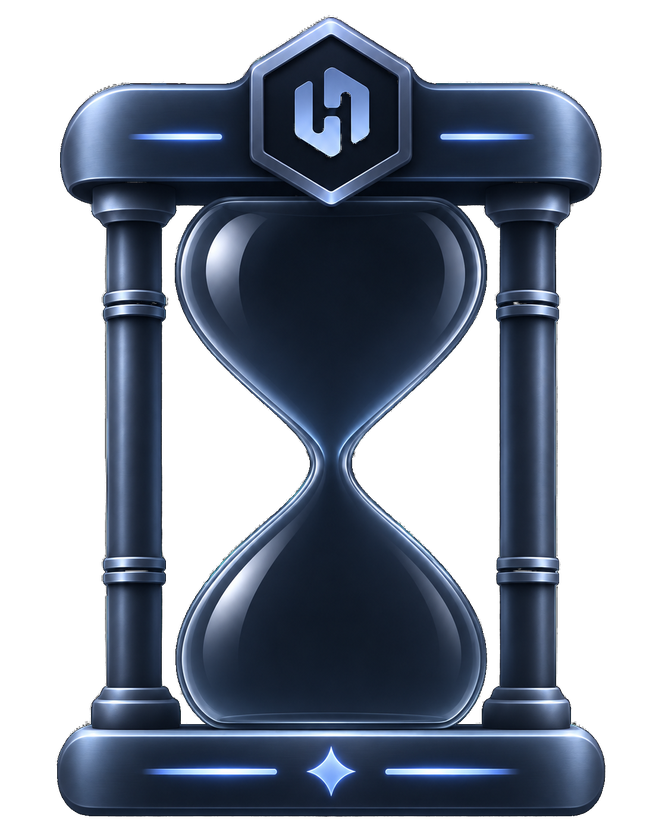
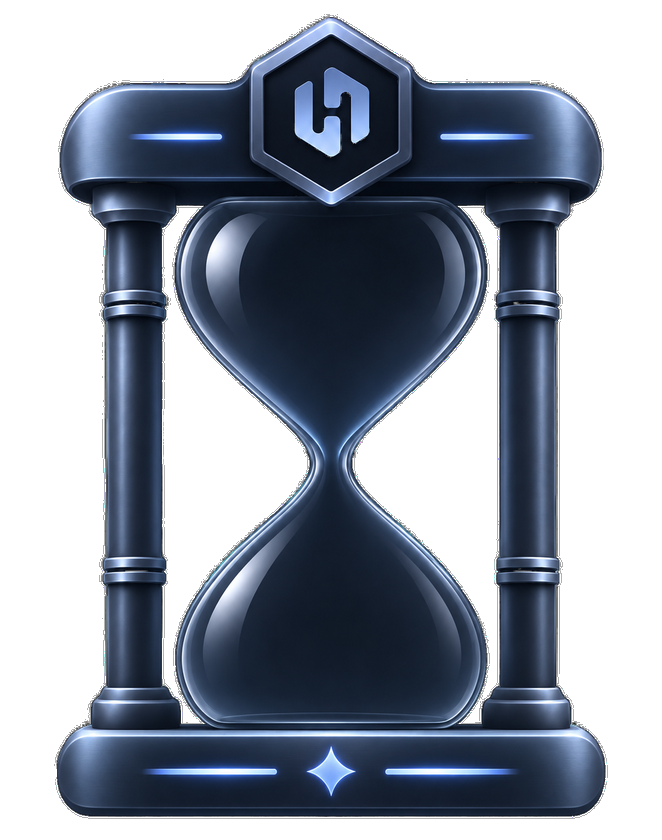
Hourglasses: the glass 30% less see-through; every still hourglass (carousel, awards, rank-up, leaderboard) is the empty frame, the full art with painted sand removed; the carousel's are dimmed 30%

diff --git a/theme/hourglassFrames.ts b/theme/hourglassFrames.ts
@@ -28,52 +28,52 @@ export interface GlassFrame {
 export const HOURGLASS_FRAMES: Record<string, GlassFrame> = {
     Lost: {
         image: require('@/assets/images/hourglasses/frames/lost.png'),
-        width: 662, height: 840, cx: 330, neck: 466, top: 207, bottom: 722, light: 0.75, foot: 812, brightness: 0.7,
-        outline: [[207, 204, 457], [219, 193, 467], [231, 186, 474], [243, 181, 479], [255, 178, 482], [267, 177, 484], [279, 177, 484], [291, 179, 482], [303, 183, 479], [315, 187, 474], [327, 194, 468], [339, 202, 459], [351, 211, 449], [363, 221, 439], [375, 233, 427], [387, 246, 414], [399, 259, 401], [411, 273, 387], [423, 287, 374], [435, 298, 362], [447, 307, 354], [459, 310, 351], [471, 310, 351], [483, 305, 357], [495, 295, 367], [507, 282, 379], [519, 269, 392], [531, 255, 404], [543, 241, 417], [555, 229, 429], [567, 218, 440], [579, 208, 450], [591, 200, 459], [603, 192, 467], [615, 186, 473], [627, 182, 478], [639, 178, 481], [651, 177, 484], [663, 177, 484], [675, 178, 483], [687, 181, 480], [699, 186, 475], [711, 193, 468], [722, 204, 457]],
+        width: 662, height: 840, cx: 330, neck: 456, top: 207, bottom: 721, light: 0.75, foot: 812, brightness: 0.7,
+        outline: [[207, 204, 457], [219, 193, 467], [231, 186, 475], [243, 181, 480], [255, 178, 482], [267, 176, 484], [279, 176, 484], [291, 179, 482], [303, 182, 479], [315, 187, 474], [327, 194, 468], [339, 202, 459], [351, 211, 450], [363, 221, 439], [375, 233, 427], [387, 246, 414], [399, 259, 401], [411, 273, 387], [423, 286, 374], [435, 298, 363], [447, 306, 354], [459, 310, 351], [471, 310, 352], [483, 304, 357], [495, 294, 367], [507, 282, 379], [519, 268, 392], [531, 254, 405], [543, 241, 417], [555, 229, 429], [567, 218, 440], [579, 208, 450], [591, 199, 459], [603, 192, 467], [615, 186, 473], [627, 181, 478], [639, 178, 482], [651, 176, 484], [663, 176, 484], [675, 178, 483], [687, 181, 480], [699, 186, 476], [711, 193, 468], [721, 203, 458]],
     },
     Beginner: {
         image: require('@/assets/images/hourglasses/frames/beginner.png'),
-        width: 662, height: 840, cx: 330, neck: 457, top: 212, bottom: 718, light: 0.74, foot: 816, brightness: 0.7,
-        outline: [[212, 196, 463], [224, 187, 472], [236, 181, 478], [248, 177, 482], [260, 175, 484], [272, 174, 485], [284, 176, 484], [296, 179, 481], [308, 183, 477], [320, 189, 471], [332, 196, 464], [344, 205, 455], [356, 215, 445], [368, 226, 434], [380, 238, 422], [392, 251, 410], [404, 264, 396], [416, 278, 383], [428, 292, 369], [440, 302, 359], [452, 307, 354], [464, 308, 353], [476, 306, 355], [488, 298, 363], [500, 287, 374], [512, 274, 388], [524, 260, 401], [536, 246, 415], [548, 232, 427], [560, 221, 438], [572, 211, 448], [584, 202, 457], [596, 194, 465], [608, 188, 472], [620, 183, 477], [632, 180, 481], [644, 177, 483], [656, 177, 485], [668, 178, 484], [680, 181, 480], [692, 186, 475], [704, 193, 469], [716, 203, 458], [718, 205, 455]],
+        width: 662, height: 840, cx: 331, neck: 461, top: 212, bottom: 718, light: 0.74, foot: 816, brightness: 0.7,
+        outline: [[212, 195, 463], [224, 187, 472], [236, 180, 478], [248, 177, 482], [260, 173, 485], [272, 174, 486], [284, 176, 484], [296, 178, 481], [308, 183, 477], [320, 188, 471], [332, 196, 464], [344, 204, 456], [356, 214, 446], [368, 225, 434], [380, 238, 423], [392, 251, 410], [404, 264, 397], [416, 278, 383], [428, 291, 370], [440, 302, 359], [452, 307, 354], [464, 308, 353], [476, 306, 355], [488, 298, 363], [500, 287, 375], [512, 273, 388], [524, 260, 402], [536, 245, 415], [548, 232, 427], [560, 221, 438], [572, 210, 448], [584, 202, 457], [596, 193, 465], [608, 188, 472], [620, 183, 477], [632, 179, 481], [644, 177, 484], [656, 176, 486], [668, 178, 484], [680, 180, 480], [692, 184, 477], [704, 192, 470], [716, 202, 458], [718, 205, 456]],
     },
     Consistent: {
         image: require('@/assets/images/hourglasses/frames/consistent.png'),
-        width: 662, height: 840, cx: 330, neck: 460, top: 205, bottom: 723, light: 0.75, foot: 815, brightness: 0.7,
-        outline: [[205, 193, 466], [217, 193, 467], [229, 186, 475], [241, 180, 481], [253, 177, 484], [265, 175, 486], [277, 175, 486], [289, 176, 485], [301, 180, 482], [313, 184, 477], [325, 191, 470], [337, 199, 462], [349, 208, 453], [361, 219, 442], [373, 231, 430], [385, 243, 417], [397, 256, 404], [409, 270, 391], [421, 283, 378], [433, 295, 365], [445, 304, 356], [457, 309, 352], [469, 309, 352], [481, 304, 356], [493, 295, 366], [505, 283, 378], [517, 269, 392], [529, 256, 405], [541, 242, 418], [553, 230, 430], [565, 219, 442], [577, 209, 452], [589, 200, 461], [601, 192, 468], [613, 186, 475], [625, 181, 480], [637, 178, 483], [649, 175, 486], [661, 175, 486], [673, 177, 485], [685, 180, 482], [697, 184, 477], [709, 192, 470], [721, 203, 460], [723, 205, 457]],
+        width: 662, height: 840, cx: 330, neck: 460, top: 205, bottom: 723, light: 0.75, foot: 816, brightness: 0.7,
+        outline: [[205, 91, 472], [217, 193, 468], [229, 185, 475], [241, 180, 481], [253, 176, 484], [265, 175, 486], [277, 175, 486], [289, 176, 485], [301, 179, 482], [313, 184, 477], [325, 191, 471], [337, 198, 462], [349, 208, 453], [361, 218, 442], [373, 230, 431], [385, 243, 418], [397, 256, 405], [409, 270, 391], [421, 283, 378], [433, 295, 365], [445, 304, 357], [457, 309, 352], [469, 309, 352], [481, 304, 357], [493, 295, 367], [505, 283, 379], [517, 269, 392], [529, 255, 405], [541, 242, 419], [553, 230, 430], [565, 219, 442], [577, 209, 452], [589, 200, 461], [601, 192, 469], [613, 186, 475], [625, 181, 480], [637, 178, 484], [649, 175, 486], [661, 175, 486], [673, 176, 485], [685, 179, 483], [697, 184, 478], [709, 191, 470], [721, 202, 460], [723, 205, 457]],
     },
     Growing: {
         image: require('@/assets/images/hourglasses/frames/growing.png'),
-        width: 662, height: 840, cx: 329, neck: 468, top: 222, bottom: 728, light: 0.75, foot: 815, brightness: 0.8,
-        outline: [[222, 200, 458], [234, 190, 468], [246, 183, 474], [258, 178, 479], [270, 176, 481], [282, 175, 481], [294, 176, 480], [306, 179, 478], [318, 183, 474], [330, 189, 468], [342, 196, 461], [354, 205, 452], [366, 216, 442], [378, 227, 430], [390, 239, 418], [402, 252, 405], [414, 265, 392], [426, 278, 379], [438, 290, 367], [450, 300, 357], [462, 307, 351], [474, 308, 350], [486, 305, 353], [498, 297, 360], [510, 286, 371], [522, 274, 383], [534, 261, 397], [546, 248, 410], [558, 235, 423], [570, 223, 434], [582, 212, 446], [594, 202, 455], [606, 194, 464], [618, 187, 470], [630, 182, 475], [642, 179, 478], [654, 177, 480], [666, 176, 480], [678, 177, 479], [690, 180, 477], [702, 184, 473], [714, 191, 467], [726, 203, 454], [728, 206, 450]],
+        width: 662, height: 840, cx: 328, neck: 467, top: 222, bottom: 728, light: 0.75, foot: 815, brightness: 0.8,
+        outline: [[222, 91, 470], [234, 189, 468], [246, 182, 475], [258, 178, 479], [270, 176, 481], [282, 175, 482], [294, 176, 481], [306, 178, 478], [318, 182, 474], [330, 188, 468], [342, 196, 461], [354, 205, 452], [366, 215, 442], [378, 227, 431], [390, 239, 419], [402, 252, 406], [414, 265, 392], [426, 278, 379], [438, 290, 367], [450, 300, 357], [462, 306, 352], [474, 307, 350], [486, 304, 353], [498, 297, 361], [510, 286, 371], [522, 274, 384], [534, 260, 397], [546, 247, 410], [558, 235, 423], [570, 223, 435], [582, 212, 446], [594, 202, 456], [606, 194, 464], [618, 187, 470], [630, 182, 475], [642, 178, 479], [654, 176, 480], [666, 176, 481], [678, 177, 480], [690, 179, 478], [702, 183, 474], [714, 190, 467], [726, 203, 454], [728, 200, 451]],
     },
     Disciplined: {
         image: require('@/assets/images/hourglasses/frames/disciplined.png'),
-        width: 662, height: 840, cx: 330, neck: 462, top: 204, bottom: 718, light: 0.75, foot: 814, brightness: 0.8,
-        outline: [[204, 208, 453], [216, 195, 465], [228, 187, 474], [240, 181, 480], [252, 177, 484], [264, 175, 486], [276, 174, 487], [288, 175, 486], [300, 178, 484], [312, 182, 479], [324, 189, 473], [336, 197, 465], [348, 206, 456], [360, 217, 445], [372, 229, 433], [384, 241, 421], [396, 253, 408], [408, 266, 395], [420, 279, 381], [432, 292, 369], [444, 302, 359], [456, 308, 353], [468, 310, 351], [480, 307, 354], [492, 299, 362], [504, 287, 374], [516, 274, 387], [528, 260, 401], [540, 246, 414], [552, 233, 427], [564, 221, 439], [576, 210, 450], [588, 201, 459], [600, 193, 467], [612, 187, 473], [624, 182, 478], [636, 179, 482], [648, 177, 484], [660, 177, 484], [672, 179, 482], [684, 182, 479], [696, 187, 474], [708, 196, 466], [718, 199, 564]],
+        width: 662, height: 840, cx: 330, neck: 464, top: 204, bottom: 717, light: 0.75, foot: 814, brightness: 0.8,
+        outline: [[204, 207, 453], [216, 195, 466], [228, 187, 474], [240, 181, 480], [252, 177, 484], [264, 174, 487], [276, 174, 487], [288, 175, 487], [300, 178, 484], [312, 182, 480], [324, 189, 474], [336, 197, 465], [348, 206, 456], [360, 217, 446], [372, 228, 434], [384, 240, 421], [396, 253, 408], [408, 266, 395], [420, 279, 382], [432, 291, 369], [444, 302, 359], [456, 308, 353], [468, 310, 351], [480, 306, 354], [492, 298, 363], [504, 287, 374], [516, 273, 387], [528, 259, 401], [540, 246, 414], [552, 232, 427], [564, 221, 440], [576, 210, 450], [588, 201, 459], [600, 193, 467], [612, 187, 474], [624, 182, 478], [636, 179, 482], [648, 177, 484], [660, 177, 484], [672, 178, 483], [684, 182, 480], [696, 187, 474], [708, 196, 466], [717, 204, 457]],
     },
     Focused: {
         image: require('@/assets/images/hourglasses/frames/focused.png'),
-        width: 662, height: 840, cx: 330, neck: 462, top: 214, bottom: 714, light: 0.75, foot: 812, brightness: 0.8,
-        outline: [[214, 198, 464], [226, 188, 473], [238, 182, 480], [250, 177, 485], [262, 174, 487], [274, 173, 488], [286, 173, 488], [298, 176, 486], [310, 179, 482], [322, 185, 477], [334, 192, 470], [346, 201, 461], [358, 210, 451], [370, 221, 440], [382, 234, 428], [394, 247, 414], [406, 259, 401], [418, 273, 387], [430, 287, 374], [442, 299, 362], [454, 307, 353], [466, 310, 350], [478, 308, 352], [490, 301, 359], [502, 288, 371], [514, 274, 385], [526, 260, 400], [538, 246, 413], [550, 233, 426], [562, 221, 439], [574, 210, 450], [586, 201, 459], [598, 193, 467], [610, 187, 473], [622, 182, 479], [634, 178, 482], [646, 176, 485], [658, 176, 485], [670, 177, 483], [682, 181, 480], [694, 186, 474], [706, 195, 466], [714, 203, 457]],
+        width: 662, height: 840, cx: 330, neck: 465, top: 214, bottom: 714, light: 0.75, foot: 812, brightness: 0.8,
+        outline: [[214, 187, 567], [226, 188, 473], [238, 181, 480], [250, 176, 485], [262, 174, 488], [274, 173, 488], [286, 173, 488], [298, 175, 486], [310, 179, 482], [322, 185, 477], [334, 192, 470], [346, 200, 461], [358, 210, 451], [370, 221, 440], [382, 233, 428], [394, 246, 415], [406, 259, 402], [418, 273, 388], [430, 286, 374], [442, 298, 362], [454, 307, 354], [466, 310, 350], [478, 308, 352], [490, 301, 359], [502, 288, 371], [514, 274, 385], [526, 259, 400], [538, 246, 414], [550, 233, 427], [562, 221, 439], [574, 210, 450], [586, 201, 459], [598, 193, 467], [610, 186, 474], [622, 181, 479], [634, 178, 483], [646, 176, 485], [658, 176, 485], [670, 177, 484], [682, 180, 480], [694, 186, 475], [706, 195, 466], [714, 203, 458]],
     },
     Master: {
         image: require('@/assets/images/hourglasses/frames/master.png'),
-        width: 609, height: 840, cx: 302, neck: 467, top: 215, bottom: 725, light: 0.74, foot: 818, brightness: 0.8,
-        outline: [[215, 168, 434], [227, 162, 444], [239, 154, 452], [251, 149, 457], [263, 146, 461], [275, 145, 462], [287, 145, 462], [299, 147, 460], [311, 150, 457], [323, 154, 452], [335, 160, 446], [347, 168, 438], [359, 177, 429], [371, 188, 418], [383, 199, 406], [395, 212, 394], [407, 225, 380], [419, 239, 367], [431, 252, 352], [443, 265, 339], [455, 275, 329], [467, 281, 324], [479, 280, 325], [491, 274, 331], [503, 262, 342], [515, 249, 356], [527, 234, 371], [539, 220, 385], [551, 206, 398], [563, 194, 410], [575, 182, 421], [587, 172, 431], [599, 164, 440], [611, 157, 447], [623, 152, 452], [635, 148, 457], [647, 146, 460], [659, 145, 461], [671, 145, 461], [683, 147, 459], [695, 152, 455], [707, 158, 449], [719, 168, 439], [725, 176, 433]],
+        width: 609, height: 840, cx: 302, neck: 469, top: 216, bottom: 725, light: 0.74, foot: 819, brightness: 0.8,
+        outline: [[216, 172, 434], [228, 161, 445], [240, 154, 453], [252, 149, 458], [264, 146, 461], [276, 144, 462], [288, 145, 462], [300, 146, 460], [312, 150, 457], [324, 154, 452], [336, 161, 445], [348, 169, 437], [360, 178, 428], [372, 188, 417], [384, 200, 406], [396, 213, 393], [408, 226, 380], [420, 239, 366], [432, 253, 351], [444, 266, 339], [456, 276, 329], [468, 280, 324], [480, 279, 325], [492, 273, 332], [504, 261, 344], [516, 247, 358], [528, 233, 372], [540, 218, 386], [552, 205, 399], [564, 192, 411], [576, 181, 422], [588, 171, 432], [600, 163, 440], [612, 156, 448], [624, 151, 453], [636, 147, 457], [648, 145, 460], [660, 144, 462], [672, 145, 461], [684, 147, 459], [696, 152, 455], [708, 159, 449], [720, 169, 439], [725, 176, 433]],
     },
     Unbreakable: {
         image: require('@/assets/images/hourglasses/frames/unbreakable.png'),
-        width: 662, height: 840, cx: 330, neck: 458, top: 232, bottom: 713, light: 0.75, foot: 810, brightness: 0.8,
-        outline: [[232, 186, 580], [244, 181, 480], [256, 178, 483], [268, 176, 484], [280, 176, 484], [292, 178, 482], [304, 181, 479], [316, 186, 474], [328, 193, 468], [340, 201, 460], [352, 210, 450], [364, 221, 439], [376, 233, 427], [388, 246, 414], [400, 259, 401], [412, 272, 388], [424, 286, 374], [436, 297, 363], [448, 305, 355], [460, 308, 352], [472, 307, 353], [484, 302, 358], [496, 292, 368], [508, 278, 381], [520, 264, 395], [532, 250, 410], [544, 237, 423], [556, 225, 435], [568, 214, 446], [580, 205, 456], [592, 197, 464], [604, 190, 470], [616, 186, 475], [628, 182, 478], [640, 83, 480], [652, 180, 480], [664, 182, 479], [676, 184, 476], [688, 186, 471], [700, 192, 469], [712, 214, 466], [713, 218, 444]],
+        width: 662, height: 840, cx: 330, neck: 460, top: 234, bottom: 713, light: 0.75, foot: 811, brightness: 0.8,
+        outline: [[234, 185, 579], [246, 180, 480], [258, 177, 483], [270, 176, 484], [282, 176, 484], [294, 178, 482], [306, 182, 479], [318, 187, 474], [330, 193, 467], [342, 202, 459], [354, 212, 449], [366, 223, 437], [378, 235, 425], [390, 248, 412], [402, 261, 399], [414, 274, 386], [426, 287, 373], [438, 298, 362], [450, 305, 355], [462, 308, 352], [474, 306, 354], [486, 300, 360], [498, 289, 371], [510, 276, 384], [522, 262, 398], [534, 248, 412], [546, 235, 426], [558, 223, 437], [570, 212, 448], [582, 203, 457], [594, 195, 465], [606, 189, 471], [618, 185, 476], [630, 182, 479], [642, 181, 480], [654, 181, 480], [666, 182, 478], [678, 185, 477], [690, 186, 471], [702, 200, 469], [713, 218, 444]],
     },
     Timekeeper: {
         image: require('@/assets/images/hourglasses/frames/timekeeper.png'),
-        width: 662, height: 840, cx: 330, neck: 461, top: 217, bottom: 714, light: 0.56, foot: 808, brightness: 0.8,
-        outline: [[217, 195, 461], [229, 191, 470], [241, 184, 476], [253, 180, 480], [265, 178, 483], [277, 177, 483], [289, 178, 483], [301, 180, 480], [313, 184, 476], [325, 190, 470], [337, 197, 463], [349, 206, 454], [361, 216, 444], [373, 227, 432], [385, 240, 419], [397, 253, 406], [409, 267, 392], [421, 281, 378], [433, 293, 365], [445, 302, 356], [457, 307, 352], [469, 307, 352], [481, 304, 355], [493, 295, 364], [505, 282, 377], [517, 268, 392], [529, 253, 406], [541, 240, 419], [553, 227, 432], [565, 216, 443], [577, 206, 454], [589, 198, 462], [601, 191, 469], [613, 185, 475], [625, 182, 479], [637, 179, 481], [649, 179, 482], [661, 180, 481], [673, 182, 478], [685, 187, 474], [697, 194, 466], [709, 207, 454], [714, 210, 450]],
+        width: 662, height: 840, cx: 330, neck: 457, top: 218, bottom: 713, light: 0.56, foot: 808, brightness: 0.8,
+        outline: [[218, 199, 461], [230, 190, 471], [242, 183, 477], [254, 179, 481], [266, 177, 483], [278, 177, 484], [290, 178, 483], [302, 180, 480], [314, 184, 476], [326, 190, 470], [338, 197, 463], [350, 206, 454], [362, 216, 443], [374, 228, 431], [386, 241, 419], [398, 254, 405], [410, 268, 391], [422, 282, 377], [434, 294, 365], [446, 303, 356], [458, 307, 352], [470, 307, 352], [482, 303, 356], [494, 294, 365], [506, 280, 379], [518, 266, 393], [530, 252, 407], [542, 239, 421], [554, 226, 433], [566, 215, 445], [578, 205, 455], [590, 197, 463], [602, 190, 470], [614, 184, 476], [626, 181, 479], [638, 179, 481], [650, 178, 482], [662, 179, 481], [674, 182, 478], [686, 187, 473], [698, 195, 466], [710, 208, 453], [713, 212, 448]],
     },
     Eternal: {
         image: require('@/assets/images/hourglasses/frames/eternal.png'),
-        width: 662, height: 840, cx: 330, neck: 463, top: 210, bottom: 718, light: 0.25, foot: 815, brightness: 0.8,
-        outline: [[210, 204, 456], [222, 192, 468], [234, 184, 476], [246, 179, 482], [258, 175, 486], [270, 173, 488], [282, 172, 488], [294, 173, 487], [306, 176, 485], [318, 180, 481], [330, 186, 475], [342, 193, 468], [354, 203, 459], [366, 214, 448], [378, 226, 434], [390, 240, 421], [402, 255, 405], [414, 270, 389], [426, 285, 375], [438, 297, 363], [450, 305, 354], [462, 309, 351], [474, 308, 352], [486, 302, 357], [498, 293, 367], [510, 280, 380], [522, 267, 393], [534, 252, 408], [546, 238, 422], [558, 226, 435], [570, 214, 447], [582, 203, 458], [594, 194, 466], [606, 187, 474], [618, 182, 479], [630, 177, 484], [642, 174, 487], [654, 173, 488], [666, 173, 488], [678, 175, 486], [690, 179, 482], [702, 185, 476], [714, 194, 467], [718, 197, 463]],
+        width: 662, height: 840, cx: 330, neck: 465, top: 210, bottom: 717, light: 0.25, foot: 815, brightness: 0.8,
+        outline: [[210, 203, 456], [222, 192, 468], [234, 184, 476], [246, 179, 482], [258, 175, 486], [270, 173, 488], [282, 172, 489], [294, 173, 488], [306, 176, 485], [318, 180, 481], [330, 185, 476], [342, 193, 468], [354, 202, 459], [366, 213, 448], [378, 225, 435], [390, 239, 421], [402, 255, 405], [414, 270, 390], [426, 284, 375], [438, 297, 363], [450, 305, 354], [462, 308, 351], [474, 307, 352], [486, 302, 357], [498, 293, 367], [510, 280, 380], [522, 266, 394], [534, 251, 409], [546, 238, 422], [558, 225, 435], [570, 213, 447], [582, 203, 458], [594, 194, 467], [606, 187, 474], [618, 181, 479], [630, 177, 484], [642, 174, 487], [654, 173, 488], [666, 173, 488], [678, 175, 486], [690, 179, 482], [702, 185, 476], [714, 194, 467], [717, 197, 464]],
     },
 };

diff --git a/components/Home/RankHourglass.tsx b/components/Home/RankHourglass.tsx
@@ -3,25 +3,25 @@ import { Image, StyleSheet, View } from 'react-native';
 import { useSharedValue } from 'react-native-reanimated';
 import { Hourglass } from './Hourglass';
 import { glassDesign } from '@/theme/hourglassDesigns';
-import { HOURGLASS_ART, HOURGLASS_ART_RATIO } from '@/theme/hourglassArt';
 import { HOURGLASS_FRAMES } from '@/theme/hourglassFrames';
 import { Colors } from '@/theme/colors';
 
 /**
- * A rank, shown as its hourglass: the one picture a rank has. Its finished art
- * (theme/hourglassArt.ts) when it has some, otherwise drawn from its design
+ * A rank, shown as its hourglass: its empty frame (theme/hourglassFrames.ts, the
+ * same glass as on Home, no painted sand), otherwise drawn from its design
  * (theme/hourglassDesigns.ts), still, with some sand in each bulb. `size` is its height.
  *
- * `look`: 'scene' dims it as Home's live one is dimmed, to sit in the night
- * scene; 'shadow' shows only its black silhouette (one not reached yet).
+ * `look`: 'scene' dims it into the night scene (by `dim`, else as Home's live
+ * one is dimmed); 'shadow' shows only its black silhouette (one not reached yet).
  */
-export function RankHourglass({ rank, size, look }: { rank: string; size: number; look?: 'scene' | 'shadow' }) {
+export function RankHourglass({ rank, size, look, dim }: { rank: string; size: number; look?: 'scene' | 'shadow'; dim?: number }) {
     const sand = useSharedValue(0.35);
-    const art = HOURGLASS_ART[rank];
-    if (art) {
-        const box = { height: size, width: size * HOURGLASS_ART_RATIO };
+    const frame = HOURGLASS_FRAMES[rank];
+    const art = frame?.image;
+    if (frame && art) {
+        const box = { height: size, width: size * frame.width / frame.height };
         // The same picture in black over it: all of it for a shadow, a share of it to dim.
-        const shade = look === 'shadow' ? 1 : look === 'scene' ? 1 - (HOURGLASS_FRAMES[rank]?.brightness ?? 0.8) : 0;
+        const shade = look === 'shadow' ? 1 : look === 'scene' ? (dim ?? 1 - frame.brightness) : 0;
         return (
             <View style={box} accessible accessibilityLabel={look === 'shadow' ? `${rank} hourglass, not reached yet` : `${rank} hourglass`}>
                 {look === 'shadow' ? null : <Image source={art} resizeMode="contain" accessibilityIgnoresInvertColors style={box} />}

diff --git a/theme/hourglassArt.ts b/theme/hourglassArt.ts
@@ -1,25 +1,9 @@
 import type { ImageSourcePropType } from 'react-native';
 
 /**
- * Each rank's hourglass, as finished art (assets/images/hourglasses): used
- * wherever a rank is shown still (RankHourglass). The live glass on Home,
- * whose sand runs with the day, is still drawn (theme/hourglassDesigns.ts).
+ * A rank shown still (RankHourglass) is its empty frame (theme/hourglassFrames.ts):
+ * the glass with no painted sand, as on Home.
  */
-export const HOURGLASS_ART: Record<string, ImageSourcePropType> = {
-    Lost: require('@/assets/images/hourglasses/lost.png'),
-    Beginner: require('@/assets/images/hourglasses/beginner.png'),
-    Growing: require('@/assets/images/hourglasses/growing.png'),
-    Consistent: require('@/assets/images/hourglasses/consistent.png'),
-    Disciplined: require('@/assets/images/hourglasses/disciplined.png'),
-    Focused: require('@/assets/images/hourglasses/focused.png'),
-    Master: require('@/assets/images/hourglasses/master.png'),
-    Unbreakable: require('@/assets/images/hourglasses/unbreakable.png'),
-    Timekeeper: require('@/assets/images/hourglasses/timekeeper.png'),
-    Eternal: require('@/assets/images/hourglasses/eternal.png'),
-};
-
-/** Where the art's base ends, as a share of its height (it stands on the podium there). */
-export const HOURGLASS_ART_FOOT = 0.965;
 
 /** Width over height of the art (1113 × 1413). */
 export const HOURGLASS_ART_RATIO = 1113 / 1413;

diff --git a/app/(root)/(tabs)/home.tsx b/app/(root)/(tabs)/home.tsx
@@ -57,7 +57,7 @@ import { GlassCarousel } from '@/components/Home/GlassCarousel';
 import { MatteSurface } from '@/components/ui/MatteSurface';
 import { Radius, Spacing } from '@/theme/designSystem';
 import { homeStyles } from '@/styles/screens/home.styles';
-import { HOURGLASS_ART_FOOT, TEMPLE } from '@/theme/hourglassArt';
+import { TEMPLE } from '@/theme/hourglassArt';
 import { HOURGLASS_FRAMES } from '@/theme/hourglassFrames';
 import { LinearGradient } from 'expo-linear-gradient';
 import { useSafeAreaInsets } from 'react-native-safe-area-context';
@@ -652,7 +652,9 @@ const Home = () => {
   const glassesCam = useSharedValue(0);
   const glassesZoom = 1.35;
   const glassesBottom = stepY + GLASS_HEIGHT / 2;
-  const glassesRise = glassesBottom - GLASS_HEIGHT * glassesZoom * (1 - HOURGLASS_ART_FOOT) - stepY;
+  // The carousel's glass is your frame too: the step lands where its base ends.
+  const carouselFrame = HOURGLASS_FRAMES[rankShown ?? 'Lost'];
+  const glassesRise = glassesBottom - GLASS_HEIGHT * glassesZoom * (1 - (carouselFrame ? carouselFrame.foot / carouselFrame.height : 1)) - stepY;
   // The glass stands with its base on the step, covering the step's light: its canvas sinks by the art below the base.
   const homeFrame = HOURGLASS_FRAMES[rankShown ?? 'Lost'];
   const glassSink = homeFrame ? GLASS_HEIGHT * (1 - homeFrame.foot / homeFrame.height) : 0;

diff --git a/components/Home/GlassCarousel.tsx b/components/Home/GlassCarousel.tsx
@@ -20,6 +20,9 @@ import { s } from '@/theme/scale';
 
 type Open = AppEvents['glass_open'];
 
+/** How much the carousel's hourglasses are dimmed into the scene. */
+const CAROUSEL_DIM = 0.3;
+
 /** Each hourglass's slot, as a share of the screen's width: the next ones peek in at the sides. */
 const SLOT = 0.54;
 
@@ -114,7 +117,7 @@ export function GlassCarousel({ stage, onOpenChange, camera }: {
                 {RANKS.map((rank, position) => (
                     <Slot key={rank.name} position={position} slot={slot} scrollX={scrollX}>
                         {/* Reached: dimmed into the scene, as on Home. Not yet: only its shadow. */}
-                        <RankHourglass rank={rank.name} size={glassSize} look={open.marks >= rank.min ? 'scene' : 'shadow'} />
+                        <RankHourglass rank={rank.name} size={glassSize} look={open.marks >= rank.min ? 'scene' : 'shadow'} dim={CAROUSEL_DIM} />
                     </Slot>
                 ))}
             </Animated.ScrollView>

diff --git a/scripts/trace-hourglass-frames.py b/scripts/trace-hourglass-frames.py
@@ -95,6 +95,9 @@ out = []
 for rank, name in FILES.items():
     im = keyed(Image.open(os.path.join(SRC, name)))
     im = im.resize((round(im.width * H / im.height), H), Image.LANCZOS)
+    # The glass 30% less see-through: what shows through anything partly clear is cut by 30%.
+    a = im.split()[3].point(lambda v: v if v in (0, 255) else round(255 - 0.7 * (255 - v)))
+    im.putalpha(a)
     im.save(f'assets/images/hourglasses/frames/{rank.lower()}.png', optimize=True)
     g = trace(im)
     rows = ', '.join(f'[{y}, {l}, {r}]' for y, l, r in g['outline'])
